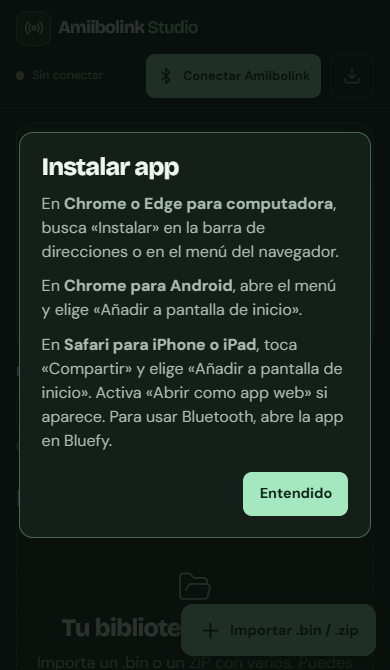
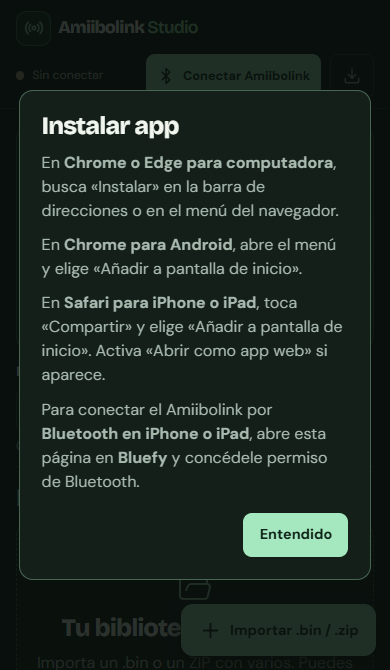
Destaca el uso de Bluefy para Bluetooth en iOS

diff --git a/src/components/Header.tsx b/src/components/Header.tsx
@@ -47,7 +47,8 @@ export function Header({ device, offlineReady, installed, onInstall }: HeaderPro
         <p>En <strong>Chrome o Edge para computadora</strong>, busca «Instalar» en la barra de direcciones o en el menú del navegador.</p>
         <p>En <strong>Chrome para Android</strong>, abre el menú y elige «Añadir a pantalla de inicio».</p>
         <p>En <strong>Safari para iPhone o iPad</strong>, toca «Compartir» y elige «Añadir a pantalla de inicio».
-          Activa «Abrir como app web» si aparece. Para usar Bluetooth, abre la app en Bluefy.</p>
+          Activa «Abrir como app web» si aparece.</p>
+        <p>Para conectar el Amiibolink por <strong>Bluetooth en iPhone o iPad</strong>, abre esta página en <strong>Bluefy</strong> y concédele permiso de Bluetooth.</p>
         <form method="dialog" className="dialog-actions">
           <button className="button button-primary" type="submit" autoFocus>Entendido</button>
         </form>

diff --git a/README.md b/README.md
@@ -47,7 +47,7 @@ El modo se marca como activo cuando el emulador lo confirma. Si una transferenci
 
 Pulsa el **icono de descarga** en la cabecera para instalar la app o crear un acceso directo. Si el navegador ofrece un diálogo de instalación, se abrirá directamente. En los demás casos, verás los pasos para hacerlo desde el menú del navegador.
 
-![Guía de instalación abierta desde el icono de descarga en la versión móvil de Amiibolink Studio](docs/screenshots/instalacion.png)
+![Guía de instalación para móvil que indica usar Bluefy para conectar el Amiibolink por Bluetooth en iPhone o iPad](docs/screenshots/instalacion.png)
 
 En iPhone o iPad, abre la página en Safari y elige **Compartir → Añadir a pantalla de inicio**. Si aparece **Abrir como app web**, actívalo. Para transferir por Bluetooth, usa Bluefy. [Guía de Apple](https://support.apple.com/es-es/guide/iphone/iphea86e5236/ios)
 
